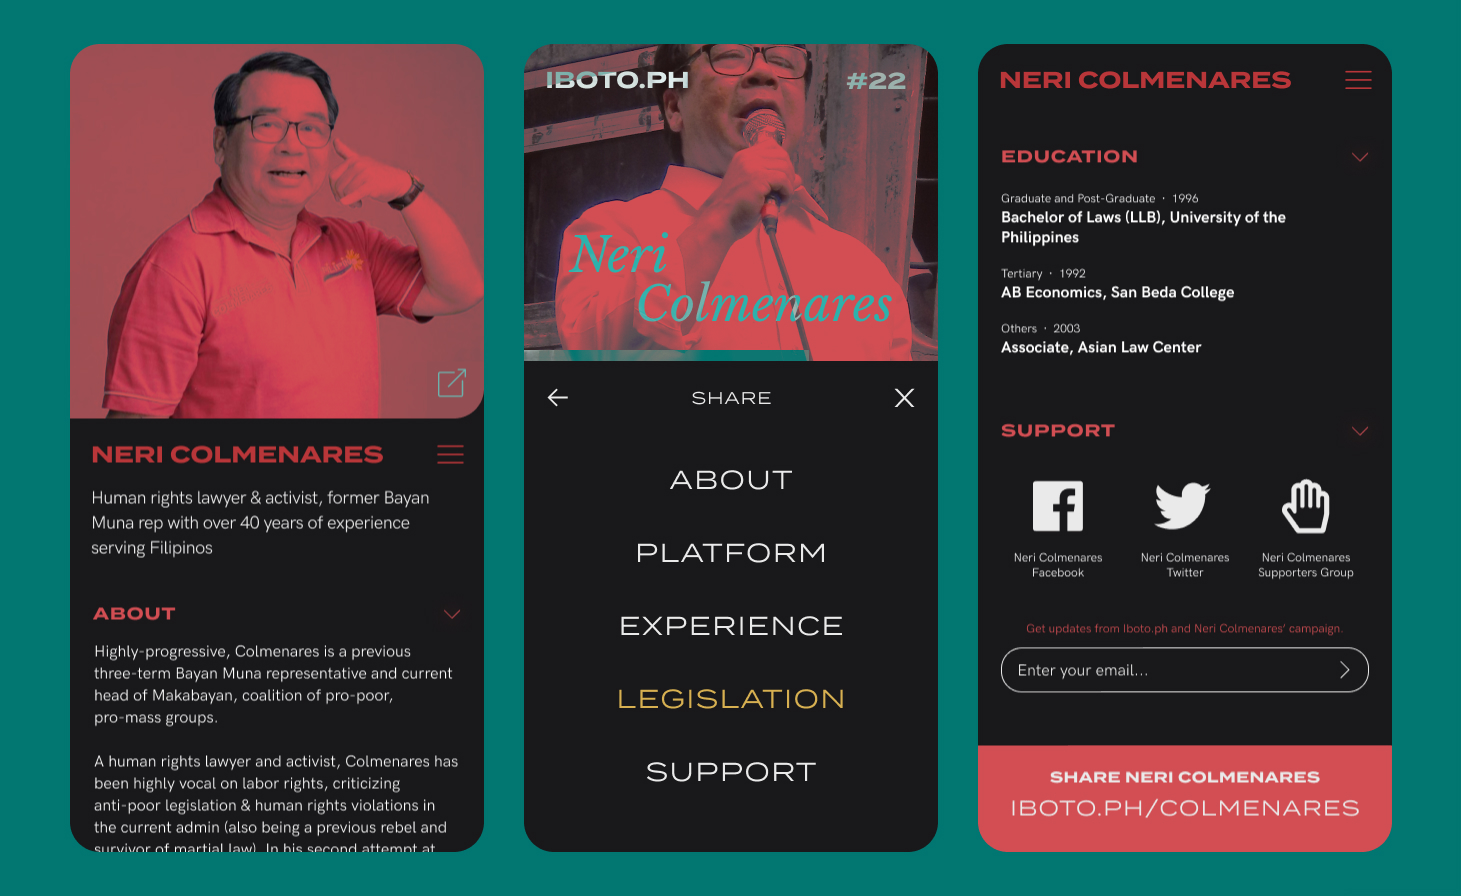
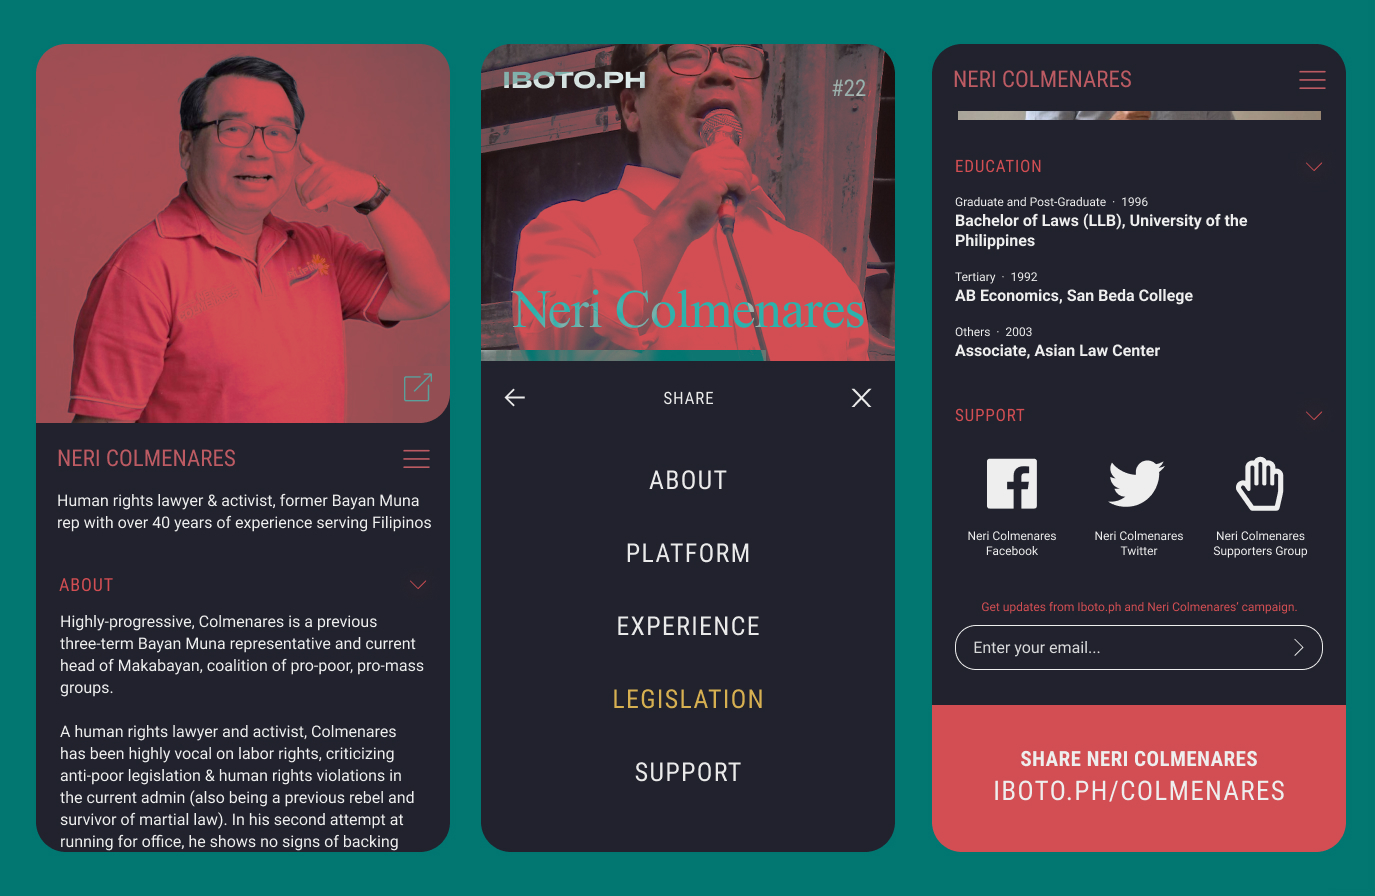
low

diff --git a/public/work/ibotoph.html b/public/work/ibotoph.html
@@ -340,14 +340,14 @@
 
 
             <div class="image-container">
-              <img loading="lazy" class="image-full" src="../assets/portfolio/iboto/ibotoph-brand.jpg">
+              <img loading="lazy" class="image-full" src="../assets/portfolio/iboto/designsystem.jpg">
             </div>
 
 
 
             <h3>Identity</h3>
 
-            <p>Iboto.ph means "to vote" in Tagalog, emphasizing our brand's forwardness. <br>
+            <p>Iboto.ph means "to vote" in Tagalog. We used desaturated national colors, intentional low-bandwidth and default fonts (Roboto/Roboto Mono and Times New Roman), and duotone images dithered and rendered as JPEGs (letting lossiness be part of the visual choice) to keep things low-data, yet high-impact.<br>
               <strong> National Brand</strong>&mdash;we needed a strong, consistent identity that made it clear we were here to politically engage. Our palette uses accent colors (and a main red) borrowed from the Philippine flag. These components and mateiral were reused throughout the project.</p>
 
 
@@ -502,6 +502,10 @@
 
             <p><strong>Candidate Page</strong><br>Collating candidate stances was a challenge to standardize, procuring information in general another. <em>Our architecture shifted based on feedback and data</em> </p>
 
+          <div class="image-container">
+          <iframe style="border: 1px solid rgba(0, 0, 0, 0.1);" width="800" height="800" src="https://www.figma.com/embed?embed_host=share&url=https%3A%2F%2Fwww.figma.com%2Fproto%2FNPWvEd7UV1sRccfdi57Q19%2FIboto.ph%3Fnode-id%3D274%253A408%26viewport%3D-1269%252C1911%252C0.7159971594810486%26scaling%3Dscale-down" allowfullscreen></iframe>
+          </div>
+          
             <p><strong>Key metrics</strong><br>That we looked were time spent on page (the best guess we could have at information digested), clicks to other candidates (are people looking at more of these progerssives that we picked?), and outbound clicks in the "get involved" section (were they potentially finding ways to engage on a deeper level?).</p>
 
             <p><strong>Selecting Candidates</strong><br>With a tight timeline, we published pages one-by-one, allowing us to stagger promotions and work more effectively. We looked at election updates and coordinated with campaign teams.</p>
